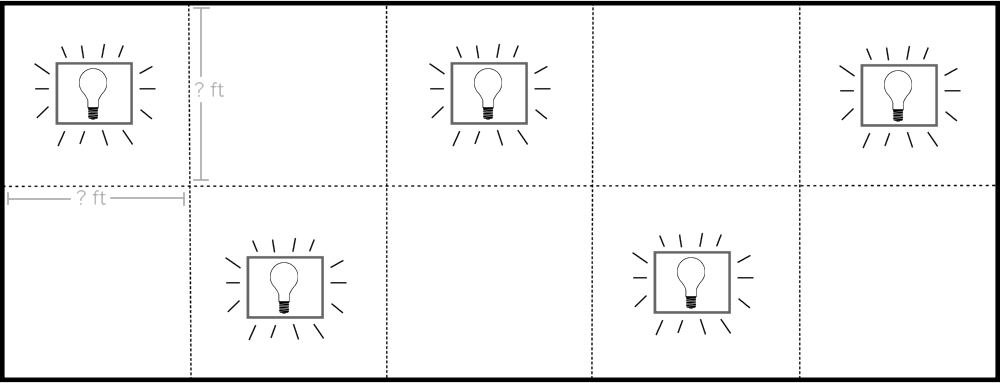
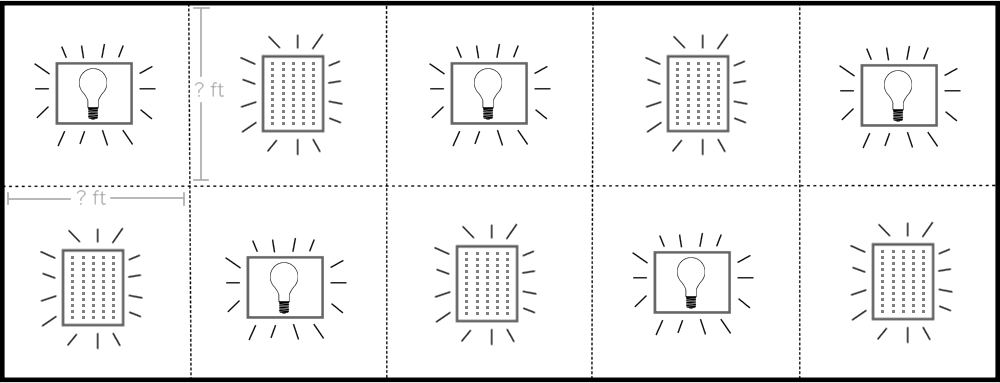
Updated Lighting Pattern Mockups
Also updates to comply with latest SurvLoop form validation.

diff --git a/src/Controllers/CannabisScore.php b/src/Controllers/CannabisScore.php
@@ -50,7 +50,10 @@ class CannabisScore extends ScoreImports
         } elseif ($nID == 701) {
             $this->pageJSvalid .= "errorFocus[errorFocus.length] = new Array('701', 'n575fld0'); var idList = "
                 . "new Array('n575fld0', 'n577fld0', 'n578fld0', 'n579fld0', 'n306fld0', 'n495fld0', 'n574fld0'); "
-                . "reqFormFldRadioCustom('701', idList); ";
+                . "function tryRadioCustom() { if (typeof addReqNodeRadioCustom === \"function\") "
+                . "addReqNodeRadioCustom('701', 'reqFormFldRadioCustom', idList); \n"
+                . "else setTimeout(\"tryRadioCustom()\", 500); return !0 \n } \n"
+                . "setTimeout(\"tryRadioCustom()\", 100); \n";
         } elseif ($nID == 393) {
             $GLOBALS["SL"]->pageAJAX .= view('vendor.cannabisscore.nodes.393-area-lighting-ajax', [
                 "areas" => $this->sessData->getLoopRowIDs('Growth Stages')
@@ -285,9 +288,7 @@ class CannabisScore extends ScoreImports
             && isset($this->sessData->dataSets["PowerScore"][0]->PsGrams)) {
             $this->v["currSessData"] = $this->sessData->dataSets["PowerScore"][0]->PsGrams;
         }
-        $this->pageJSvalid .= "if (document.getElementById('n" . $nIDtxt 
-            . "VisibleID') && document.getElementById('n" . $nIDtxt 
-            . "VisibleID').value == 1) reqFormFldGreater('" . $nIDtxt . "', 0.00000001);\n";
+        $this->pageJSvalid .= "addReqNodeRadio('" . $nIDtxt . "', 'reqFormFldGreater', 0.00000001);\n";
         return view('vendor.cannabisscore.nodes.74-total-grams', $this->v)->render();
     }
     
@@ -296,9 +297,7 @@ class CannabisScore extends ScoreImports
         $this->v["nID"]         = $nID;
         $this->v["powerScore"]  = $this->sessData->dataSets["PowerScore"][0];
         $this->v["powerMonths"] = $this->sortMonths();
-        $this->pageJSvalid .= "if (document.getElementById('n" . $nIDtxt 
-            . "VisibleID') && document.getElementById('n" . $nIDtxt 
-            . "VisibleID').value == 1) reqFormFldGreater('" . $nIDtxt . "', 0);\n";
+        $this->pageJSvalid .= "addReqNodeRadio('" . $nIDtxt . "', 'reqFormFldGreater', 0);\n";
         return view('vendor.cannabisscore.nodes.70-total-kwh', $this->v)->render();
     }
     

diff --git a/src/Views/nodes/74-total-grams.blade.php b/src/Views/nodes/74-total-grams.blade.php
@@ -8,15 +8,15 @@
 </label></div>
 <div class="nFld" style="font-size: 20px;">
     <nobr><input type="number" name="n{{ $nID }}fld" id="n{{ $nID }}FldID" autocomplete="off"
-        onkeyup="checkNodeUp('{{ $nID }}', -1, 0); checkMin('{{ $nID }}', 0); convertGrams();" 
-        data-nid="{{ $nID }}" step="any" class="form-control form-control-lg ntrStp slTab disIn mR10 mB5" 
+        onkeyup="checkMin('{{ $nID }}', 0); convertGrams();" 
+        data-nid="{{ $nID }}" step="any" class="form-control form-control-lg ntrStp slTab slNodeChange disIn mR10 mB5" 
         style="width: 140px;" @if (isset($currSessData)) value="{{ $currSessData }}" @endif 
         {!! $GLOBALS["SL"]->tabInd() !!}> grams</nobr>
     <span class="mL20 mR20"></span><span class="mL20 mR20 slGrey"><i>or</i></span>
     <nobr><input type="number" name="n{{ $nID }}fldLb" id="n{{ $nID }}FldLbID" autocomplete="off"
-        onkeyup="checkNodeUp('{{ $nID }}', -1, 0); checkMin('{{ $nID }}', 0); 
+        onkeyup="checkMin('{{ $nID }}', 0); 
         document.getElementById('n{{ $nID }}FldID').value=Math.round(this.value*453.592);" 
-        value="" min="0" class="form-control form-control-lg ntrStp slTab disIn mR10 mB5" style="width: 140px;"
+        value="" min="0" class="form-control form-control-lg ntrStp slTab slNodeChange disIn mR10 mB5" style="width: 140px;"
         {!! $GLOBALS["SL"]->tabInd() !!}> pounds</nobr>
 </div>
 <style> #nLabel{{ $nID }} label { width: 100%; } </style>

diff --git a/src/Views/nodes/70-total-kwh.blade.php b/src/Views/nodes/70-total-kwh.blade.php
@@ -60,8 +60,8 @@
 <div class="nFld mT0 slBlueDark fPerc133">
     <h3 class="disIn mR20">Total Annual Kilowatt Hours:</h3>
     <input type="number" name="n{{ $nID }}fld" id="n{{ $nID }}FldID" data-nid="{{ $nID }}" min="0" autocomplete="off"
-        class="form-control form-control-lg ntrStp slTab disIn mL20" style="width: 130px;" 
-        onKeyUp=" checkNodeUp('{{ $nID }}', -1, 0);" {!! $GLOBALS["SL"]->tabInd() !!}
+        class="form-control form-control-lg ntrStp slTab slNodeChange disIn mL20" style="width: 130px;" 
+         {!! $GLOBALS["SL"]->tabInd() !!}
         @if (isset($powerScore) && isset($powerScore->PsKWH)) value="{{ $powerScore->PsKWH }}" @endif >
     <span class="mL5">kWh</span> <span class="red mL10">*required</span>
 </div>

diff --git a/src/Views/nodes/398-total-sqft.blade.php b/src/Views/nodes/398-total-sqft.blade.php
@@ -49,8 +49,8 @@
     </div>
 </div>
 <div class="nFld" style="font-size: 20px;">
-    <input class="form-control form-control-lg ntrStp slTab" type="number" name="n398fld" id="n398FldID" 
-        onKeyUp=" checkNodeUp('398', -1, 0);  checkMin('398', 0); "  data-nid="398" min="0" 
+    <input class="form-control form-control-lg ntrStp slTab slNodeChange" type="number" name="n398fld" id="n398FldID" 
+        onKeyUp="checkMin('398', 0); "  data-nid="398" min="0" 
         @if (isset($powerScore) && isset($powerScore->PsTotalSize)) value="{{ $powerScore->PsTotalSize }}" @endif 
         {!! $GLOBALS["SL"]->tabInd() !!}>
 </div>
